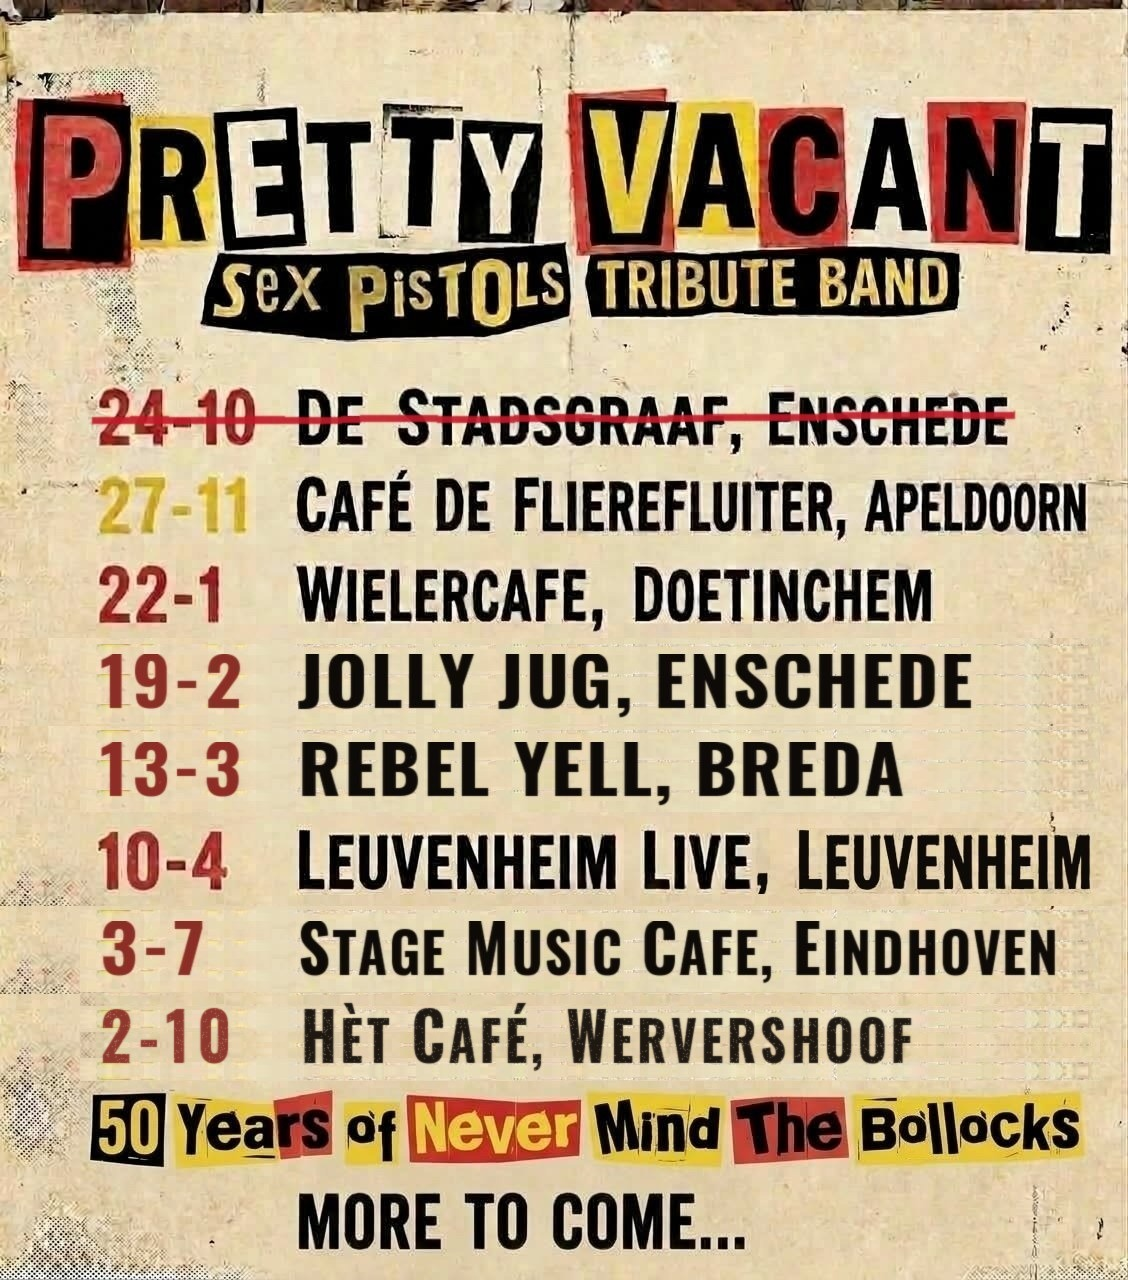
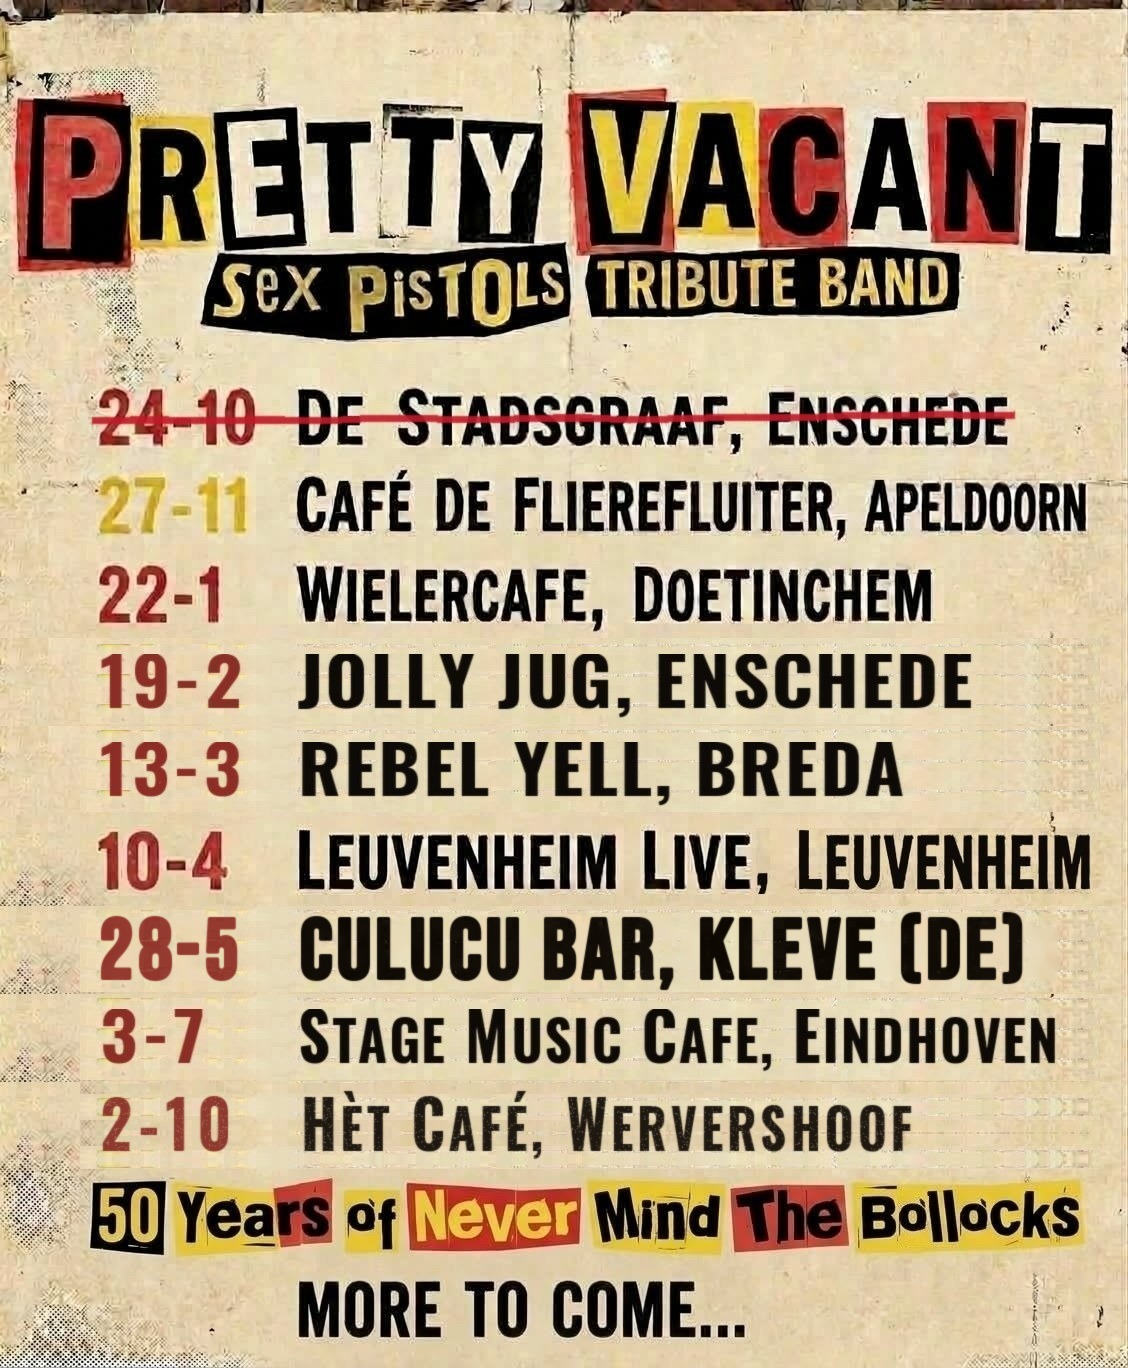
Tourposter: 28-5 Culucu Bar, Kleve (DE) toegevoegd
Claude-Session: https://claude.ai/code/session_01EPF2kexC1fepR9ScCECTp2

diff --git a/index.html b/index.html
@@ -124,7 +124,7 @@
       </div>
       <figure class="tourposter">
         <button type="button" id="poster-knop" data-ta="aria-label:tour.poster" aria-label="Vergroot de tourposter">
-          <img src="img/tourposter.jpg?v=20261117a" alt="Tourposter Pretty Vacant: 24-10 De Stadsgraaf Enschede, 27-11 Café De Flierefluiter Apeldoorn, 22-1 Wielercafé Doetinchem, 19-2 Jolly Jug Enschede, 13-3 Rebel Yell Breda, 10-4 Leuvenheim Live Leuvenheim, 3-7 Stage Music Cafe Eindhoven, 2-10 Hèt Café Wervershoof" width="1128" height="1280" loading="lazy">
+          <img src="img/tourposter.jpg?v=20261127a" alt="Tourposter Pretty Vacant: 24-10 De Stadsgraaf Enschede, 27-11 Café De Flierefluiter Apeldoorn, 22-1 Wielercafé Doetinchem, 19-2 Jolly Jug Enschede, 13-3 Rebel Yell Breda, 10-4 Leuvenheim Live Leuvenheim, 28-5 Culucu Bar Kleve (Duitsland), 3-7 Stage Music Cafe Eindhoven, 2-10 Hèt Café Wervershoof" width="1128" height="1368" loading="lazy">
         </button>
       </figure>
     </div>
